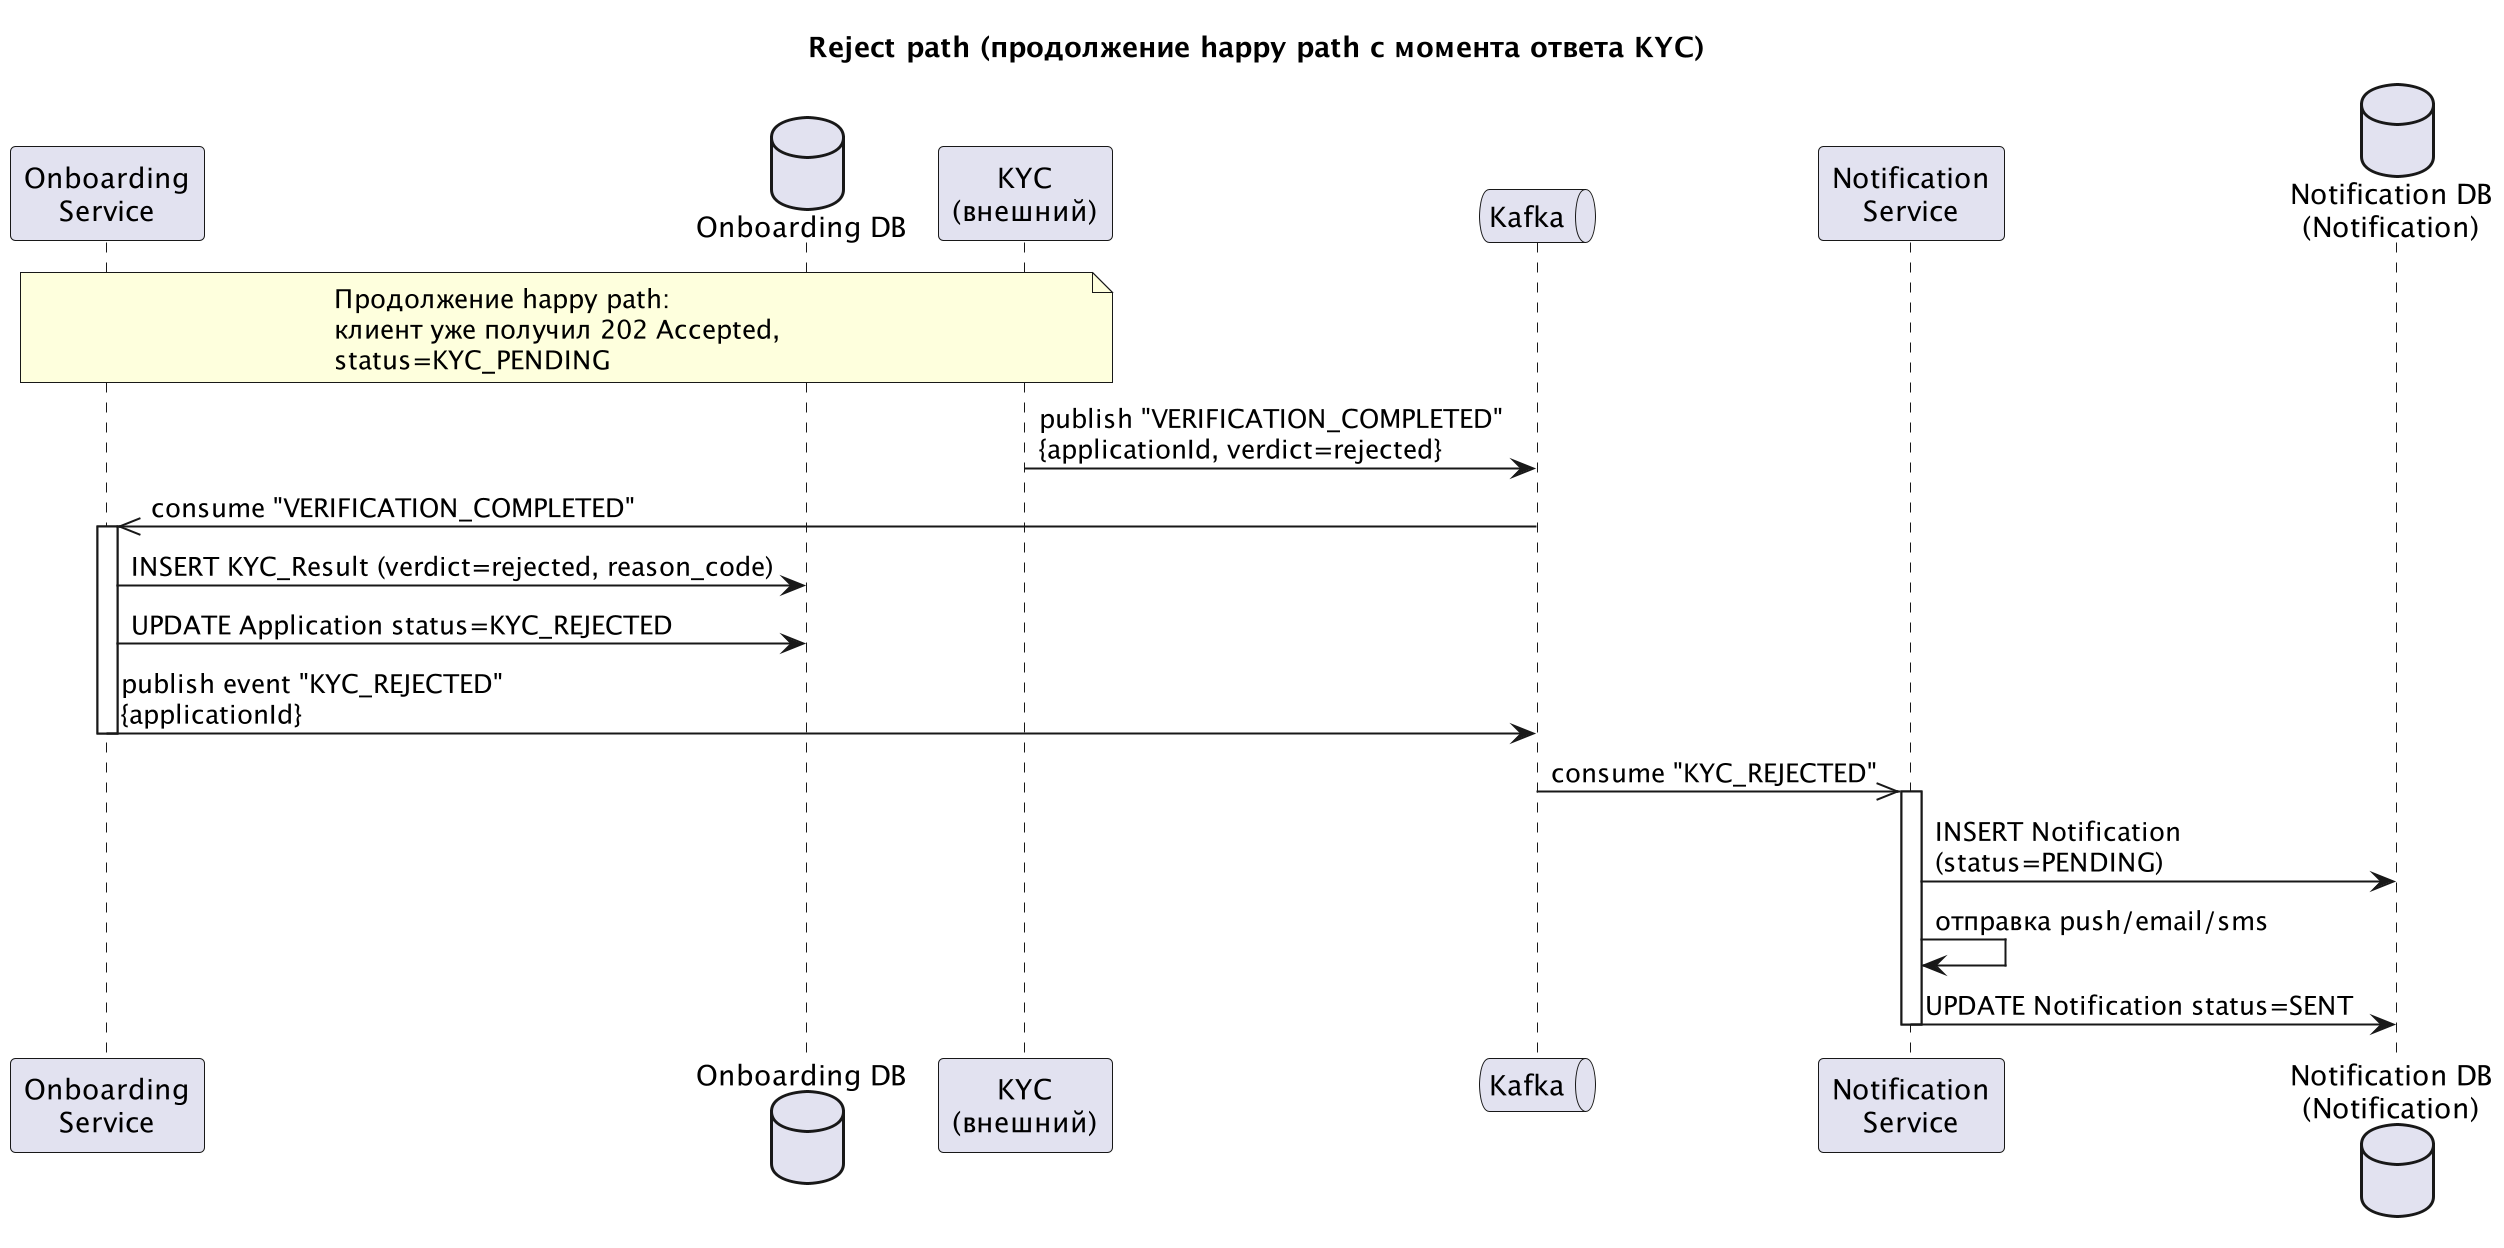
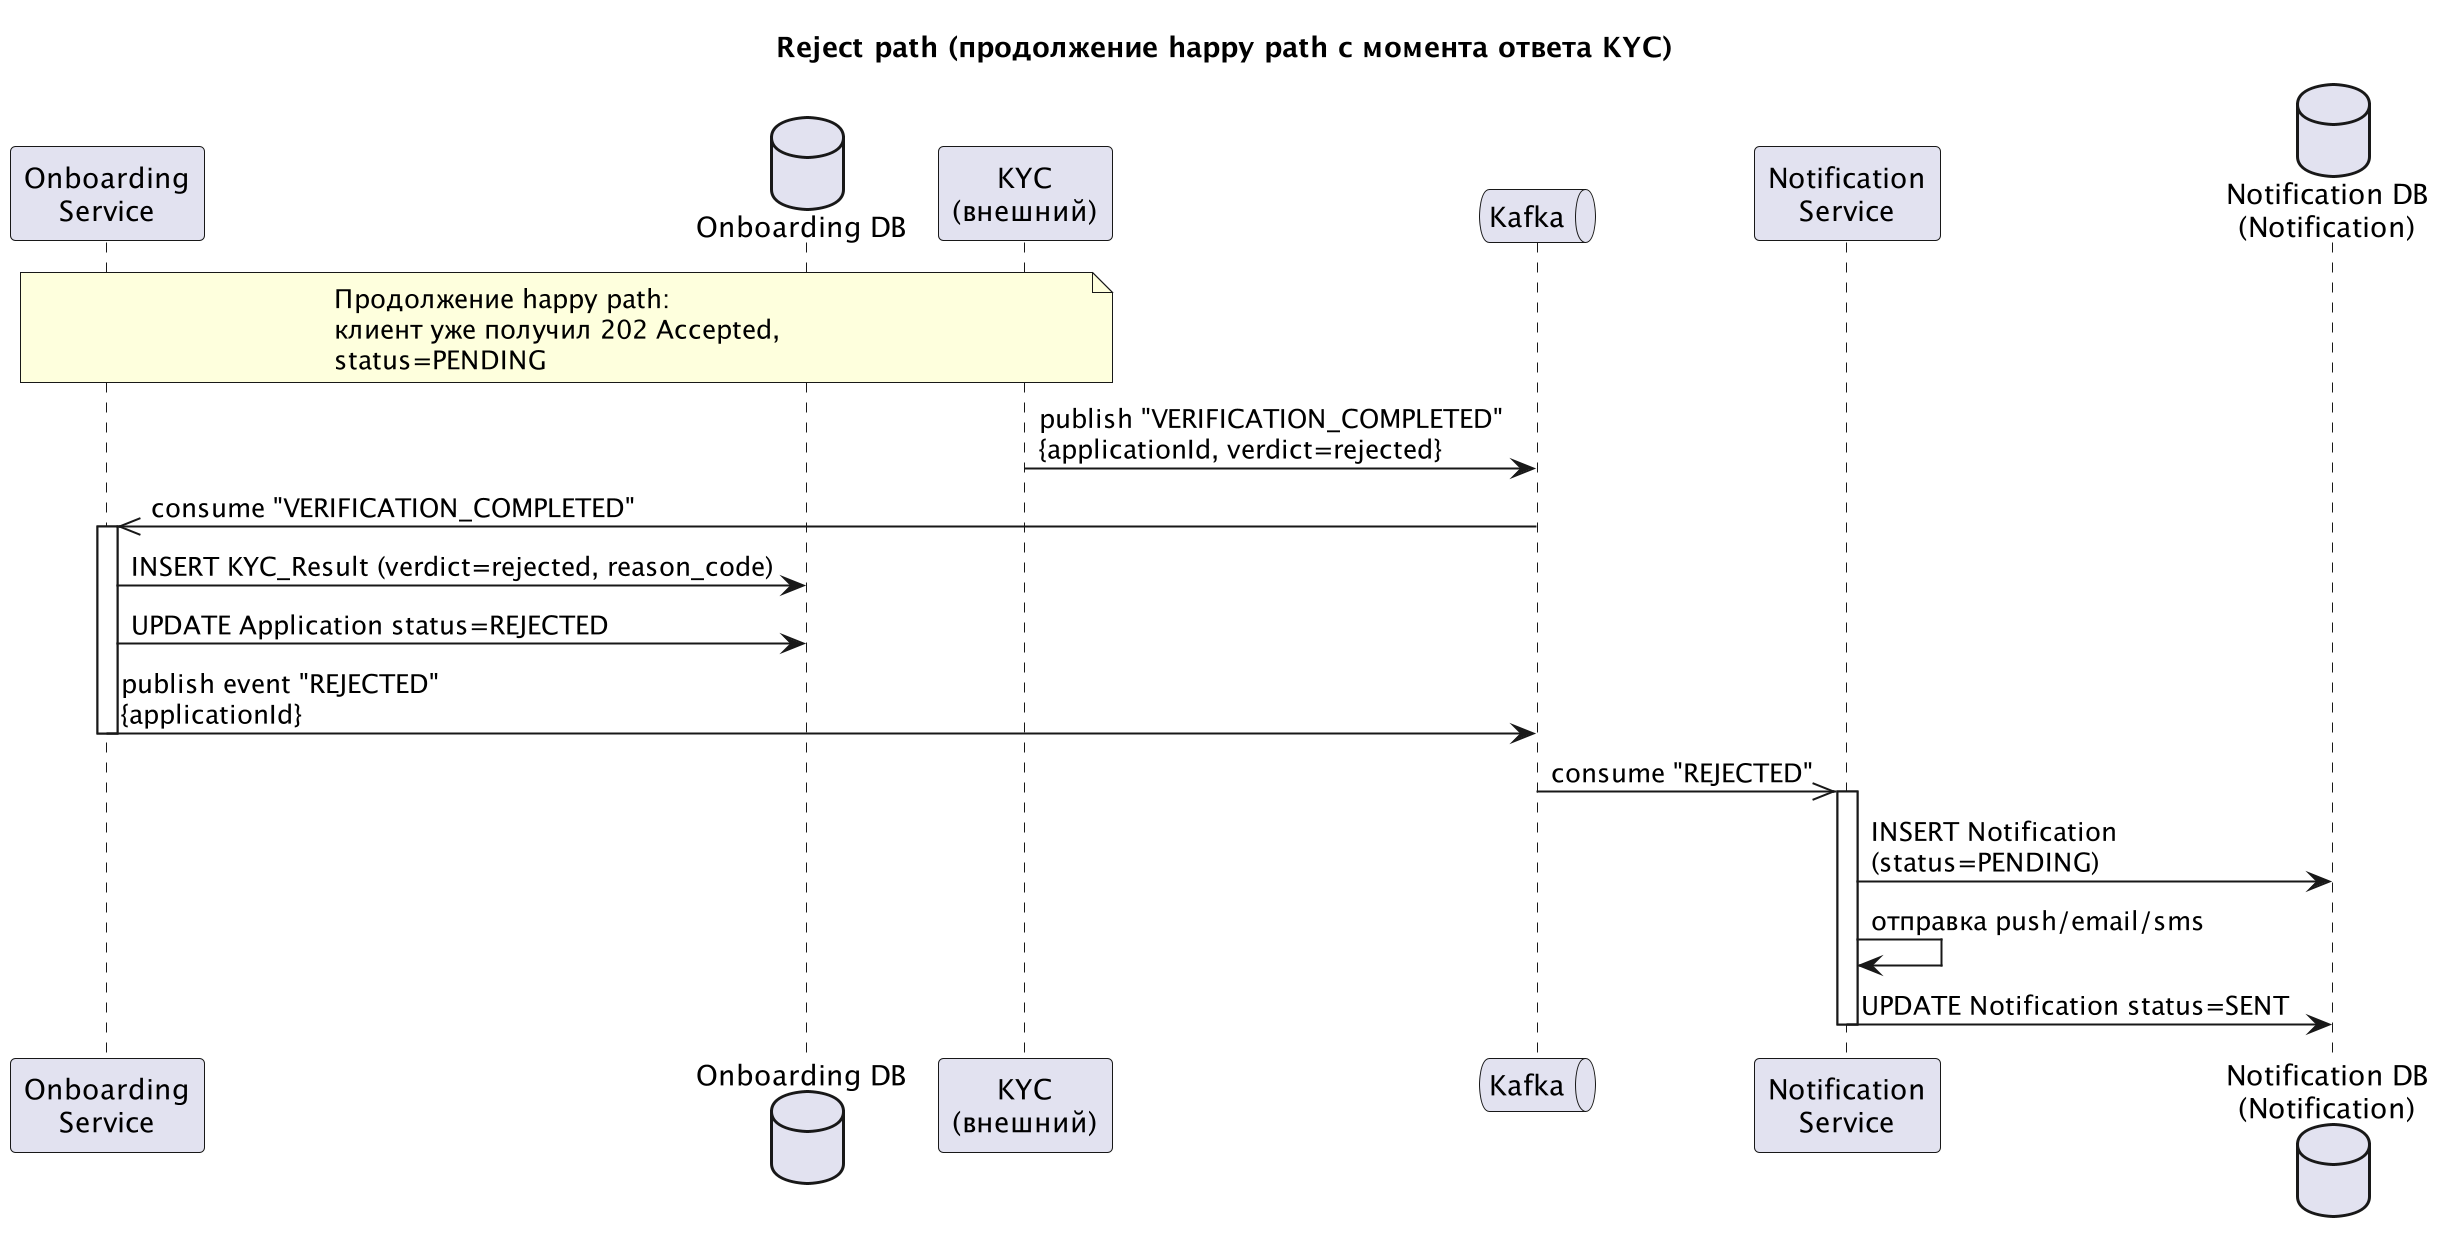
feat: обновление спецификации OpenAPI и схемы базы данных для онбординга клиентов
- Доработана спецификация OpenAPI для API онбординга клиентов: добавлены детальные схемы запросов и ответов для подачи заявки, получения статуса и процессов одобрения.
- Изменена схема базы данных: значения статуса заявки обновлены с 'KYC_PENDING', 'KYC_APPROVED' и 'KYC_REJECTED' на 'PENDING', 'APPROVED' и 'REJECTED'.
- Обновлены C4-диаграмма и ERD в соответствии с новыми статусами заявок и изменением терминологии ролей (Admin на Manager).
- Пересмотрены sequence-диаграммы для точного отражения процесса онбординга, включая пути ручной проверки и обновление статусов.
- Скорректированы функциональные требования и глоссарий в соответствии с новыми статусами заявок и ролями.
- Обновлена матрица трассируемости для соответствия пересмотренным функциональным требованиям.

diff --git a/requirements/use-cases.md b/requirements/use-cases.md
@@ -10,6 +10,7 @@
 - Core Banking — центральная система учёта счетов, балансов и транзакций банка
 - Notification Service — система уведомлений
 - Kafka (Event Bus) — брокер сообщений для асинхронного взаимодействия между Onboarding Service, Core Banking и Notification Service
+- Manager — сотрудник банка, вручную рассматривает заявки в статусе MANUAL_REVIEW через административный интерфейс
 
 ## User Stories
 
@@ -36,6 +37,6 @@
 - **4a.** Не все обязательные поля заполнены или не загружены обязательные документы → система не пропускает заявку, просит заполнить/загрузить недостающее (подсвечены красным)
 - **5a.** KYC-сервис недоступен/не отвечает → клиент видит статус "заявка обрабатывается", результат придёт позже, заявка не теряется
 - **7a.** KYC оценил клиента как высокорискованного, статус "Rejected" → заявка отклоняется, клиент уведомляется
-- **7b.** KYC вернул статус "Manual Review" → заявка переходит в MANUAL_REVIEW, клиенту показывается "проверка занимает больше времени"
+- **7b.** KYC вернул статус "Manual Review" → заявка переходит в MANUAL_REVIEW, но клиент продолжает видеть "Заявка обрабатывается"
 - **7c.** Заявка в MANUAL_REVIEW → менеджер вручную рассматривает через административный интерфейс (включая загруженные документы), выставляет решение (approved/rejected)
 - **9a.** Ошибка при создании счёта в Core Banking после успешного KYC → клиент не получает преждевременного уведомления об успехе; система гарантирует, что счёт будет создан ровно один раз

diff --git a/requirements/glossary.md b/requirements/glossary.md
@@ -3,8 +3,14 @@
 
 | Applicant | Физическое лицо, подающее заявку на открытие счёта |
 | Application | Заявка на открытие счёта, привязанная к Applicant |
-| KYC verdict | Итоговое решение KYC-провайдера: approved / rejected / manual_review |
+| Application status | Статус заявки (`application.status`): CREATED / PENDING / APPROVED / REJECTED / MANUAL_REVIEW / COMPLETED. Не путать с KYC verdict — статус общий для решения и от KYC, и от менеджера; кто именно принял решение, фиксируется в `application_history.changed_by` |
+| KYC verdict | Итоговое решение KYC-провайдера (`kyc_result.result`): approved / rejected / manual_review |
+| Manual Review | Промежуточный статус заявки, при котором решение принимает не KYC-провайдер, а менеджер вручную через административный интерфейс |
 | Applicant Document | Скан/фото документа клиента (паспорт, фото), хранится по ссылке в защищённом хранилище (vault), не в основной БД |
 | Sensitive Data | Чувствительные персональные данные клиента (паспорт, СНИЛС, ИНН, адреса), хранятся в БД в зашифрованном виде |
+| Onboarding Service | Внутренний сервис, принимающий заявку, хранящий Applicant/Application и оркестрирующий процесс через Kafka |
+| Core Banking | Центральная система учёта счетов, балансов и транзакций банка; создаёт Debit_account после одобрения заявки |
+| Notification Service | Внутренний сервис, отправляющий клиенту уведомления (push/email/sms) о статусе заявки |
+| Kafka (Event Bus) | Брокер сообщений для асинхронного взаимодействия между Onboarding Service, Core Banking и Notification Service |
 
 ## TODO — дополнить по мере проработки

diff --git a/requirements/functional.md b/requirements/functional.md
@@ -4,8 +4,7 @@
 | FR-001 | Система должна предоставить клиенту форму для ввода персональных данных при регистрации 
 | FR-002 | Система должна валидировать обязательные поля формы при попытке отправки заявки, подсвечивать незаполненные поля и блокировать отправку до их заполнения 
 | FR-003 | Система должна отправлять данные заявки в KYC-сервис после успешной валидации формы 
-| FR-004 | Система должна создавать банковский счёт в Core Banking при получении статуса "KYC approved" 
-| FR-005 | Система должна уведомлять клиента при получении статуса "KYC_APPROVED" 
-| FR-006 | Система должна отклонять заявку и уведомлять клиента при получении статуса "KYC_REJECTED" 
-| FR-007 | Система должна уведомлять клиента при получении статуса "MANUAL_REVIEW" 
-| FR-008 | Система должна предоставлять клиенту возможность загрузить документы (паспорт, фото) как часть формы заявки 
+| FR-004 | Система должна создавать банковский счёт в Core Banking при получении статуса "APPROVED" 
+| FR-005 | Система должна отклонять заявку при получении статуса "REJECTED" 
+| FR-006 | Система должна уведомлять клиента при переходе заявки в финальный статус ("APPROVED" или "REJECTED") |
+| FR-007 | Система должна предоставлять клиенту возможность загрузить документы (паспорт, фото) как часть формы заявки 

diff --git a/requirements/traceability-matrix.md b/requirements/traceability-matrix.md
@@ -2,6 +2,6 @@
 
 | User Story | Функциональные требования | Диаграммы |
 |---|---|---|
-| US-001 | FR-001, FR-002, FR-003, FR-004, FR-005, FR-006, FR-007, FR-008 | erd/schema.dbml, sequence/*.puml, state/*.puml |
+| US-001 | FR-001, FR-002, FR-003, FR-004, FR-005, FR-006, FR-007 | erd/schema.dbml, sequence/*.puml, state/*.puml |
 
 ## TODO — заполнить ссылками на конкретные файлы диаграмм по мере создания
